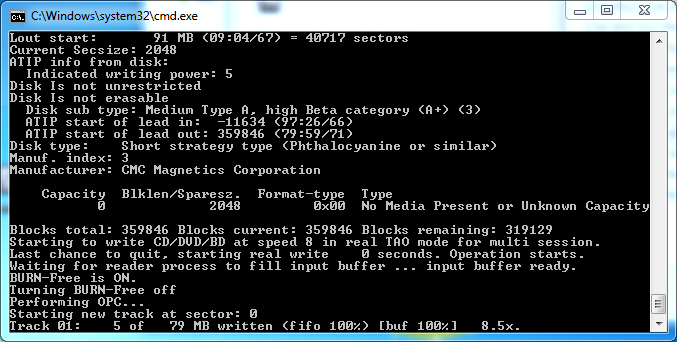
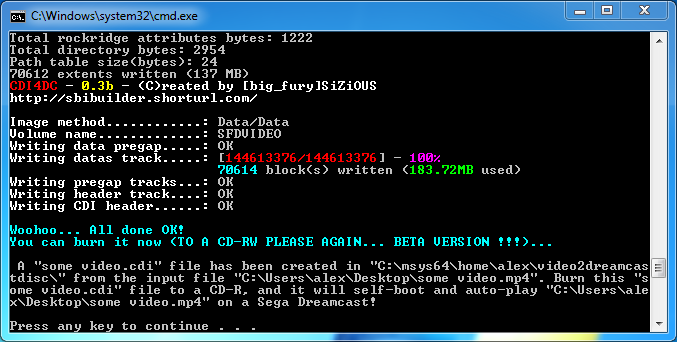
video2dreamcast disc v1.1.1

Changed region(s): [[0.0, 0.0, 1.0, 1.0], [0.6824, 0.2924, 0.7134, 0.3509]]

diff --git a/video2dreamcastdisc/index.html b/video2dreamcastdisc/index.html
@@ -29,13 +29,12 @@
 <img src="images/vid2dcd-3.png"="vid2dcd 3" width="600">
 <img src="images/vid2dcd-4.png"="vid2dcd 4" width="600">
 <img src="images/vid2dcd-5.png"="vid2dcd 5" width="600">
-<img src="images/vid2dcd-6.png"="vid2dcd 6" width="600">
 
 <a name="downloads"><h2>Downloads</h2></a>
 
-<h3>v1.1 - 2/18/2022</h3>
+<h3>v1.1.1 - 3/25/2022</h3>
 
-<p><a href=https://github.com/alex-free/video2dreamcastdisc/releases/download/v1.1/video2dreamcastdisc-1.1-win32.zip>Video2DreamcastDisc v1.1</a> <i>For Windows 7 32-bit/64-bit or newer</i></p>
+<p><a href=https://github.com/alex-free/video2dreamcastdisc/releases/download/v1.1.1/video2dreamcastdisc-1.1.1-win32.zip>Video2DreamcastDisc v1.1.1</a> <i>For Windows 7 32-bit/64-bit or newer</i></p>
 
 <p>Using git:</p> <pre><code>git clone https://github.com/alex-free/video2dreamcastdisc</code></pre>
 
@@ -48,16 +47,20 @@
 <ul><li>Drag n' drop a video file into the <code>vid2dcd.bat</code> file to start converting the dropped file (recommended method).</li>
 <li>Open <code>cmd.exe</code>, and execute <code>vid2dcd.bat</code> with an argument like <code>vid2dcd.bat myhuge.mkv</code>.</li></ul>
 
-<p>When executing the <code>vid2dcd.bat</code> with a media file as argument as explained in the above 2 methods, you will be prompted in the <code>cmd.exe</code> window for your desired video bitrate. This does not effect the audio in your final video played on the Sega Dreamcast. The maximum video bitrate you can enter that will actually play on the Sega Dreamcast is <code>3600</code>. I encounted some stuttering only in the first minute of playbackin videos at this bitrate. Anyways I recommend <code>3300</code> to gaurentee no stuttering on any CD-R. This looks great, and doesn't take up quite as much space as using <code>3600</code>. You can only overburn so much to a CD-R, so if you find that using your desired bitrate generates to big of a <code>.cdi</code> for you to burn on your CD-R media you should use a lower value. I do not recommend anything lower then <code>2000</code>, but the choice is yours for the size/length of playback tradeoff.</p>
-
-<p>After selecting a bitrate, you will be provided with an option menu:
+<p>When executing the <code>vid2dcd.bat</code> with a media file as argument as explained in the above 2 methods, you will be prompted in the <code>cmd.exe</code> window to enter an option:</p>
 
 <ul><li>Option 1 will create a <code>video.cdi</code> file in the Video2DreamcastDisc directory and burn that file automatically to a blank CD-R in your computer's optical drive, all in one go.</li>
 
 <li>Option 2 will create a <code>video.cdi</code> file in the Video2DreamcastDisc directory that can be burned to a CD-R for Sega Dreamcast playback..</li>
 
 <li>Option 3 will create a <code>video.sfd</code> file in the Video2DreamcastDisc directory.</li> 
+
+<li>Option 4 allows you to split an existing video file into multiple segments that are each limited to a maximum amount of minutes per segment that you provide. This means you can take a very long video file and split it into i.e. 25 minute segments so that each part of the video can be it's own video file which individually fis on it's own CD-R. A movie could be split like this to be converted by Video2DreamcastDisc afterwards for playback via multiple CD-Rs.</li>
+
 </ul>
+
+
+<p>If you have selected option 1, 2, or 3, the next thing you will be prompted for is your desired video bitrate. This does not effect the audio in your final video played on the Sega Dreamcast. The maximum video bitrate you can enter that will actually play on the Sega Dreamcast is <code>3600</code>. I encountered some stuttering only in the first minute of playback in videos at this bitrate. Anyways I recommend <code>3300</code> to guarantee no stuttering on any CD-R. This looks great, and doesn't take up quite as much space as using <code>3600</code>. You can only over burn so much to a CD-R, so if you find that using your desired bitrate generates to big of a <code>.cdi</code> for you to burn on your CD-R media you should use a lower value. I do not recommend anything lower then <code>2000</code>, but the choice is yours for the size/length of playback trade off.</p>
 
 <a name="specs"><h2>Video Specifications</h2></a>
 
@@ -69,6 +72,12 @@
 <li>Format: Sofdec Video</li></ul>
 
 <a name="changelog"><h2>Changelog</h2></a>
+
+<h3>Version 1.1.1 (3/25/2022)</h3>
+<ul><li>Added option 4 to split long videos into multiple shorter segments for further conversion by Video2DreamcastDisc.</li>
+<li>Change both <code>WARNER.PVR</code> and <code>SOFTDEC.PVR</code> to my own custom white colored PVR file to remove the "We Proudly Present" banner played at the end of videos by SFDPlayer.</li>
+<li>Changed output files from being named "video", they are now named the same as the original source file with a different extension.</li>
+</ul>
 
 <h3>Version 1.1 (2/18/2022)</h3>
 <ul><li>Updated SFD_Player using the ECHELON self-boot method.</li>
